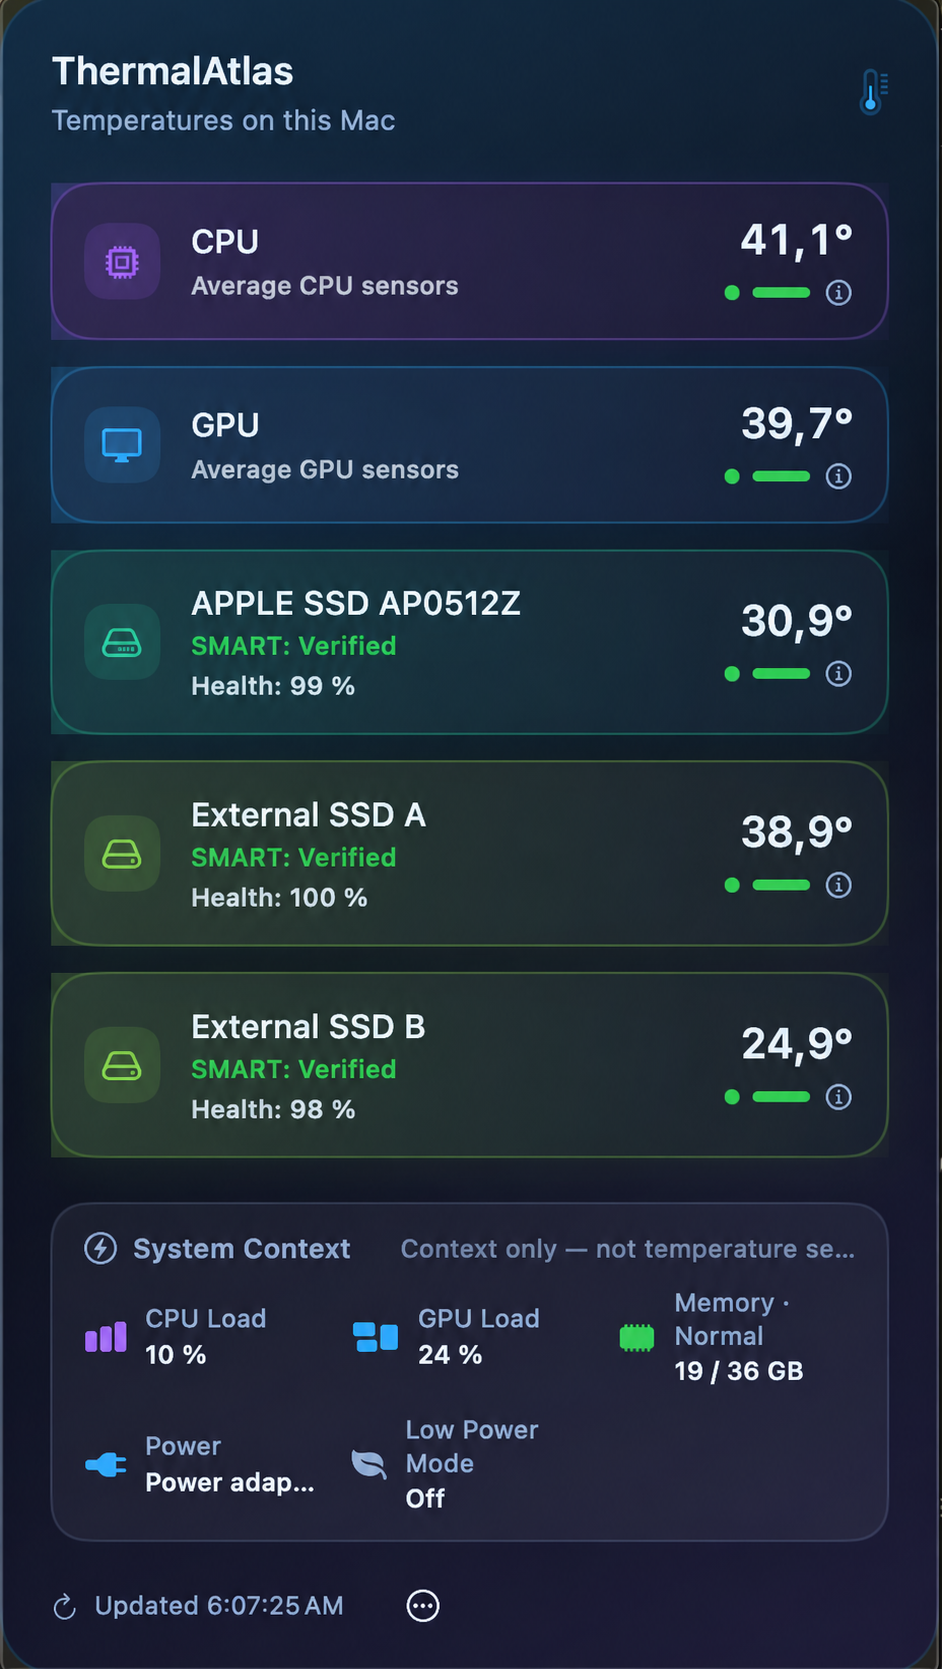
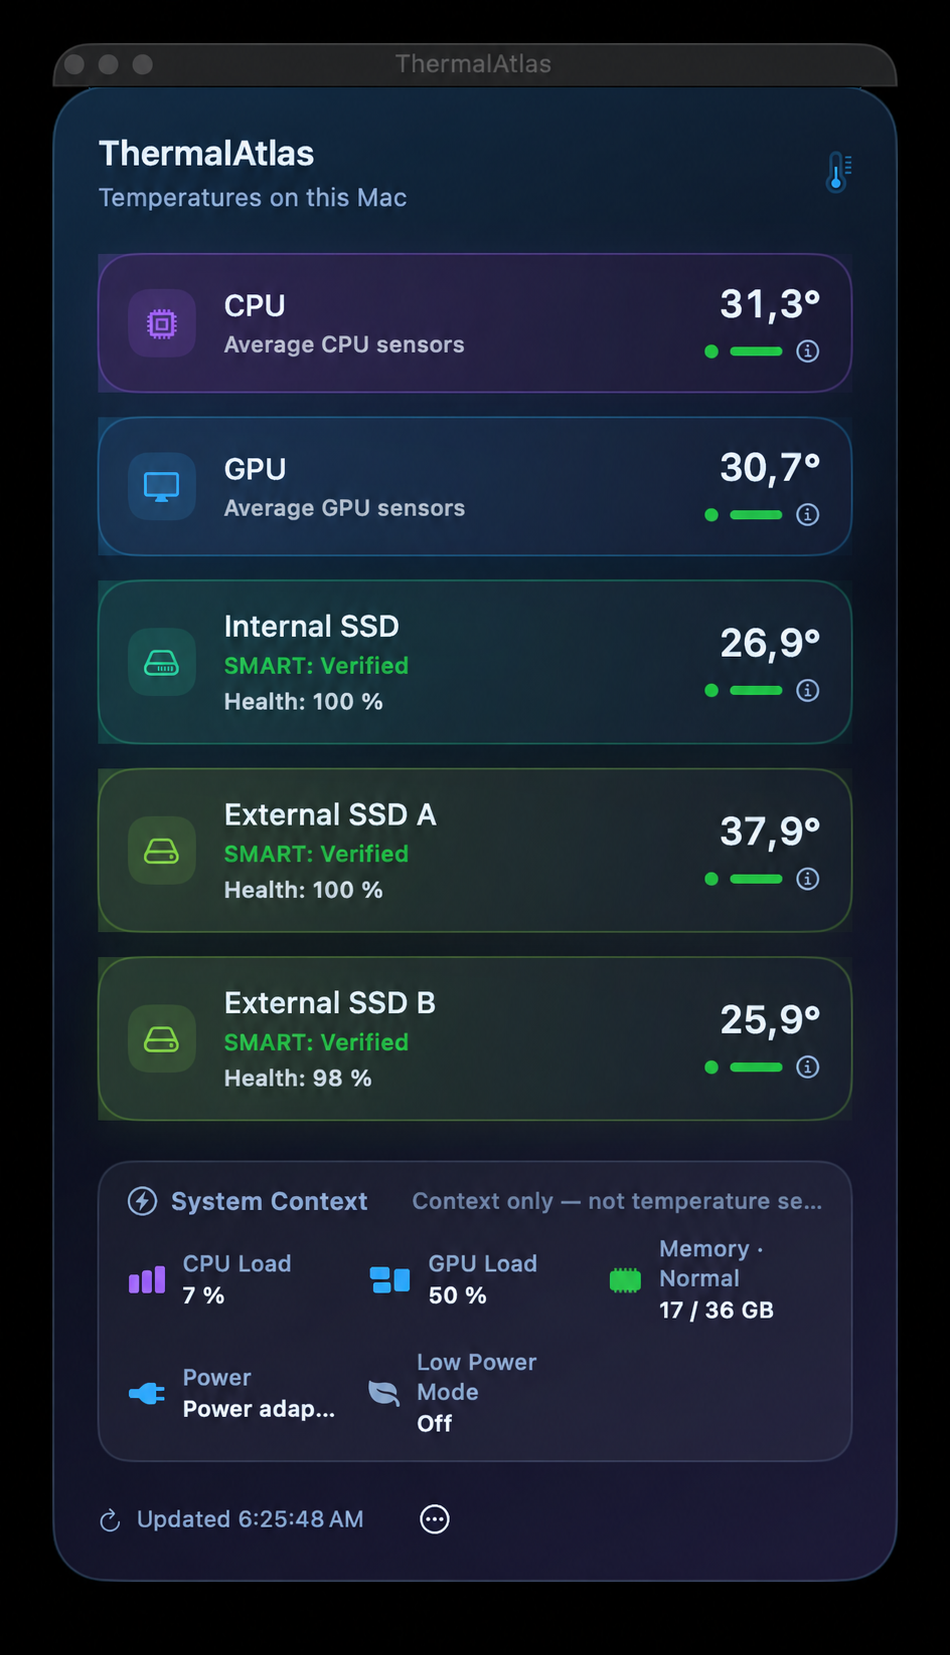
docs: refresh README screenshots

diff --git a/README.de.md b/README.de.md
@@ -42,6 +42,10 @@ Die vollständige, gegliederte [Funktionsübersicht](FEATURES.de.md) enthält al
 | Aurora | Ember |
 | <img src="Resources/Screenshots/aurora.png?v=20260823-monitoring" width="330" alt="ThermalAtlas-Aurora-macOS-Theme mit Temperaturkarten und separatem Systemkontext"> | <img src="Resources/Screenshots/ember.png?v=20260823-monitoring" width="330" alt="ThermalAtlas-Ember-macOS-Theme mit Temperaturkarten und separatem Systemkontext"> |
 
+| Kompaktansicht |
+| --- |
+| <img src="Resources/Screenshots/compact.png" width="260" alt="ThermalAtlas-Kompaktansicht mit Temperaturkarten und separatem Systemkontext"> |
+
 ## Voraussetzungen
 
 - macOS 14 oder neuer auf Apple Silicon

diff --git a/README.md b/README.md
@@ -42,6 +42,10 @@ See the complete, grouped [feature overview](FEATURES.md).
 | Aurora | Ember |
 | <img src="Resources/Screenshots/aurora.png?v=20260823-monitoring" width="330" alt="ThermalAtlas Aurora macOS theme showing temperature cards and a separate System Context area"> | <img src="Resources/Screenshots/ember.png?v=20260823-monitoring" width="330" alt="ThermalAtlas Ember macOS theme showing temperature cards and a separate System Context area"> |
 
+| Compact view |
+| --- |
+| <img src="Resources/Screenshots/compact.png" width="260" alt="ThermalAtlas compact view with temperature cards and a System Context area"> |
+
 ## Requirements
 
 - macOS 14 or later on Apple silicon
